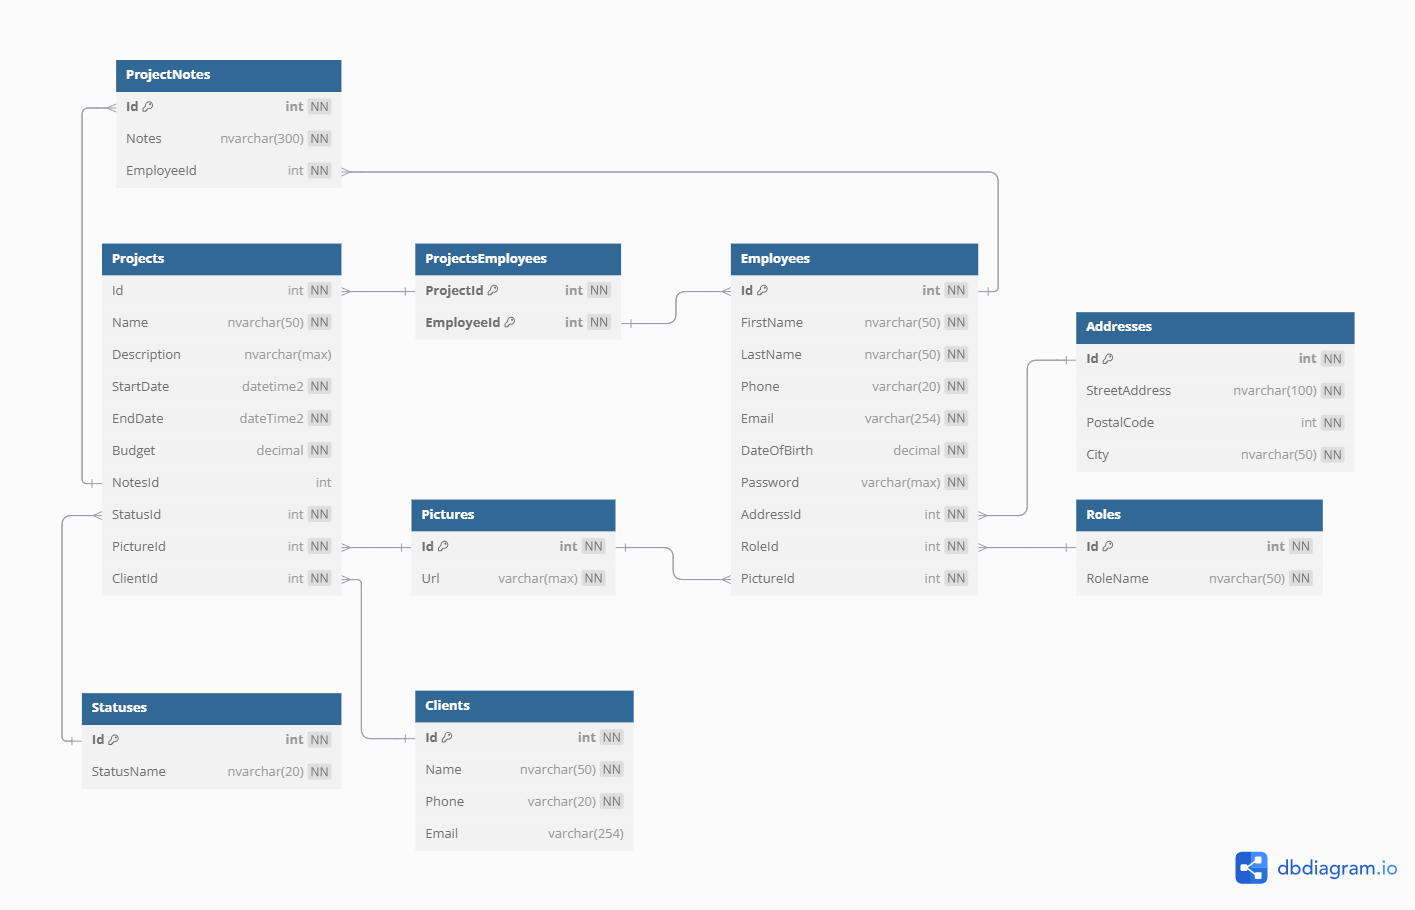
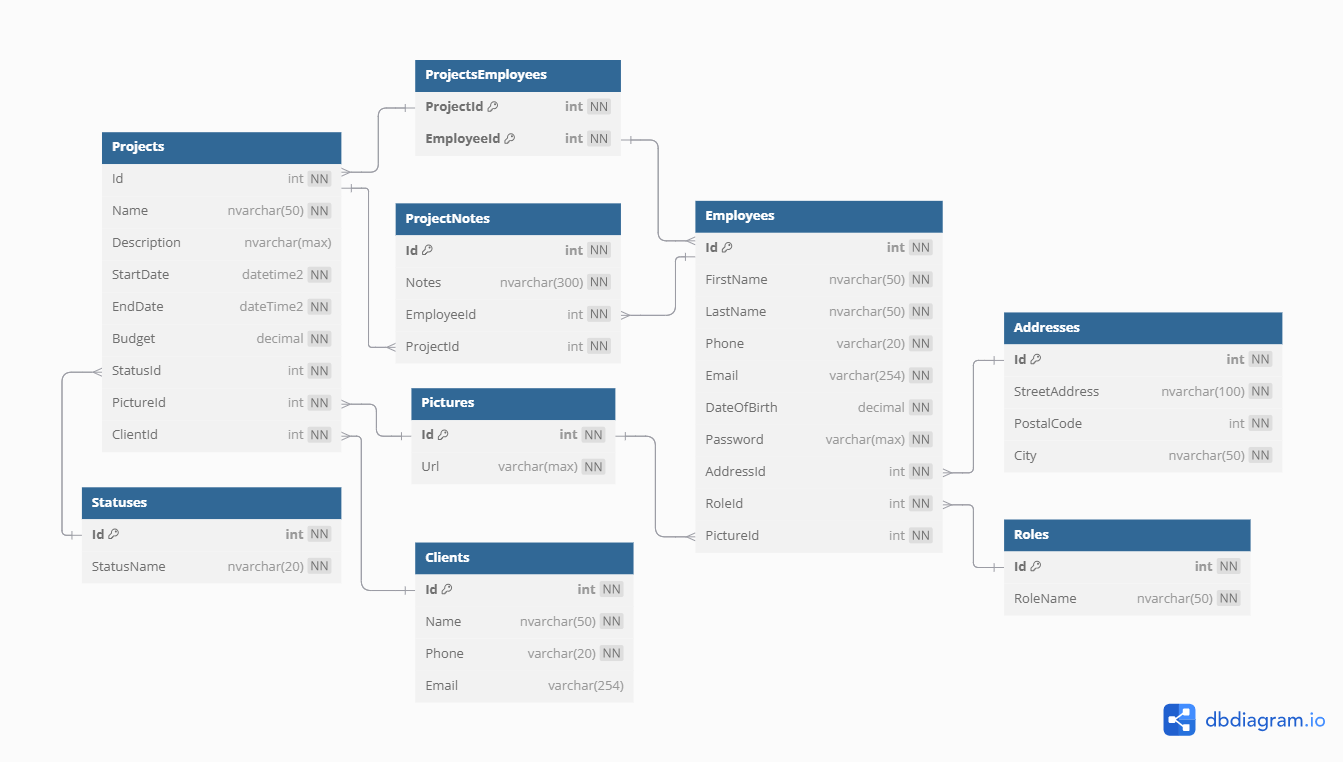
Moved Entities directory. Started adding relations in context.

diff --git a/Data/Data/Contexts/AlphaDbContext.cs b/Data/Data/Contexts/AlphaDbContext.cs
@@ -1,7 +1,77 @@
-using Microsoft.EntityFrameworkCore;
+using Data.Entities;
+using Microsoft.EntityFrameworkCore;
 
 namespace Data.Contexts;
 
 public class AlphaDbContext(DbContextOptions<AlphaDbContext> options) : DbContext(options)
 {
+    public DbSet<AddressEntity> Addresses { get; set; }
+    public DbSet<ClientEntity> Clients { get; set; }
+    public DbSet<EmployeeEntity> Employees { get; set; }
+    public DbSet<PictureEntity> Pictures { get; set; }
+    public DbSet<ProjectEmployeeEntity> ProjectEmployees { get; set; }
+    public DbSet<ProjectEntity> Projects { get; set; }
+    public DbSet<ProjectNoteEntity> ProjectNotes { get; set; }
+    public DbSet<RoleEntity> Roles { get; set; }
+    public DbSet<StatusEntity> Statuses { get; set; }
+
+
+    protected override void OnModelCreating(ModelBuilder modelBuilder)
+    {
+        #region AddressEntity
+        modelBuilder.Entity<AddressEntity>()
+                .HasMany(a => a.Employees)
+                .WithOne(e => e.Address)
+                .HasForeignKey(e => e.AddressId)
+                .OnDelete(DeleteBehavior.Restrict);
+        #endregion 
+
+        #region ClientEntity    
+        modelBuilder.Entity<ClientEntity>()
+                .HasMany(c => c.Projects)
+                .WithOne(p => p.Client)
+                .HasForeignKey(p => p.ClientId) 
+                .OnDelete(DeleteBehavior.Restrict);
+        #endregion
+
+        #region RoleEntity
+        modelBuilder.Entity<RoleEntity>()
+                .HasMany(r => r.Employees)
+                .WithOne(e => e.Role)
+                .HasForeignKey(e => e.RoleId)
+                .OnDelete(DeleteBehavior.Restrict);
+        #endregion
+
+        #region StatusEntity
+        modelBuilder.Entity<StatusEntity>()
+                .HasMany(s => s.Projects)
+                .WithOne(p => p.Status)
+                .HasForeignKey(p => p.StatusId)
+                .OnDelete(DeleteBehavior.Restrict);
+        #endregion
+
+        #region PictureEntity
+        modelBuilder.Entity<PictureEntity>()
+                .HasMany(pic => pic.Projects)
+                .WithOne(p => p.Picture)
+                .HasForeignKey(p => p.PictureId)
+                .OnDelete(DeleteBehavior.Restrict);
+
+            modelBuilder.Entity<PictureEntity>()
+                .HasMany(pic => pic.Employees)
+                .WithOne(e => e.Picture)
+                .HasForeignKey(e => e.PictureId)
+                .OnDelete(DeleteBehavior.Restrict);
+        #endregion
+
+        #region ProjectEntity
+        modelBuilder.Entity<ProjectEntity>()
+            .HasMany(p => p.Notes)
+            .WithOne(n => n.Project)
+            .HasForeignKey(n => n.ProjectId)
+            .OnDelete(DeleteBehavior.Restrict);
+        #endregion
+
+        base.OnModelCreating(modelBuilder);
+    }
 }

diff --git a/Data/Data/Entities/ProjectEntity.cs b/Data/Data/Entities/ProjectEntity.cs
@@ -1,6 +1,6 @@
 using System.ComponentModel.DataAnnotations.Schema;
 
-namespace Data.Contexts.Entities;
+namespace Data.Entities;
 
 public class ProjectEntity
 {
@@ -10,7 +10,6 @@ public class ProjectEntity
     public DateTime StartDate { get; set; }
     public DateTime EndDate { get; set; }
     public decimal Budget { get; set; }
-    public Guid NoteId { get; set; }
     public Guid ClientId { get; set; }
     public Guid StatusId { get; set; }
     public Guid PictureId { get; set; }
@@ -18,8 +17,6 @@ public class ProjectEntity
 
     // Relations
     public ICollection<ProjectEmployeeEntity> Employees { get; set; } = [];
-
-    [ForeignKey(nameof(NoteId))]
     public ICollection<ProjectNoteEntity> Notes { get; set; } = [];
 
     [ForeignKey(nameof(ClientId))]

diff --git a/Data/Data/Entities/ProjectNoteEntity.cs b/Data/Data/Entities/ProjectNoteEntity.cs
@@ -1,16 +1,19 @@
 using System.ComponentModel.DataAnnotations.Schema;
 
-namespace Data.Contexts.Entities;
+namespace Data.Entities;
 
 public class ProjectNoteEntity
 {
     public Guid Id { get; set; }
     public string Note { get; set; } = null!;
     public Guid EmployeeId { get; set; }
+    public Guid ProjectId { get; set; }
 
 
     // Relations
     [ForeignKey(nameof(EmployeeId))]
     public EmployeeEntity Employee { get; set; } = null!;
+
+    [ForeignKey(nameof(ProjectId))]
     public ProjectEntity Project {  get; set; } = null!;
 }

diff --git a/Data/Data/Entities/ProjectEmployeeEntity.cs b/Data/Data/Entities/ProjectEmployeeEntity.cs
@@ -1,6 +1,6 @@
 using System.ComponentModel.DataAnnotations.Schema;
 
-namespace Data.Contexts.Entities;
+namespace Data.Entities;
 
 public class ProjectEmployeeEntity
 {

diff --git a/Data/Data/Entities/EmployeeEntity.cs b/Data/Data/Entities/EmployeeEntity.cs
@@ -1,6 +1,6 @@
 using System.ComponentModel.DataAnnotations.Schema;
 
-namespace Data.Contexts.Entities;
+namespace Data.Entities;
 
 public class EmployeeEntity
 {

diff --git a/Data/Data/Entities/AddressEntity.cs b/Data/Data/Entities/AddressEntity.cs
@@ -1,4 +1,4 @@
-namespace Data.Contexts.Entities;
+namespace Data.Entities;
 
 public class AddressEntity
 {

diff --git a/Data/Data/Entities/PictureEntity.cs b/Data/Data/Entities/PictureEntity.cs
@@ -1,4 +1,4 @@
-namespace Data.Contexts.Entities;
+namespace Data.Entities;
 
 public class PictureEntity
 {

diff --git a/Data/Data/Entities/ClientEntity.cs b/Data/Data/Entities/ClientEntity.cs
@@ -1,4 +1,4 @@
-namespace Data.Contexts.Entities;
+namespace Data.Entities;
 
 public class ClientEntity
 {

diff --git a/Data/Data/Entities/StatusEntity.cs b/Data/Data/Entities/StatusEntity.cs
@@ -1,4 +1,4 @@
-namespace Data.Contexts.Entities;
+namespace Data.Entities;
 
 public class StatusEntity
 {

diff --git a/Data/Data/Entities/RoleEntity.cs b/Data/Data/Entities/RoleEntity.cs
@@ -1,4 +1,4 @@
-namespace Data.Contexts.Entities;
+namespace Data.Entities;
 
 public class RoleEntity
 {
